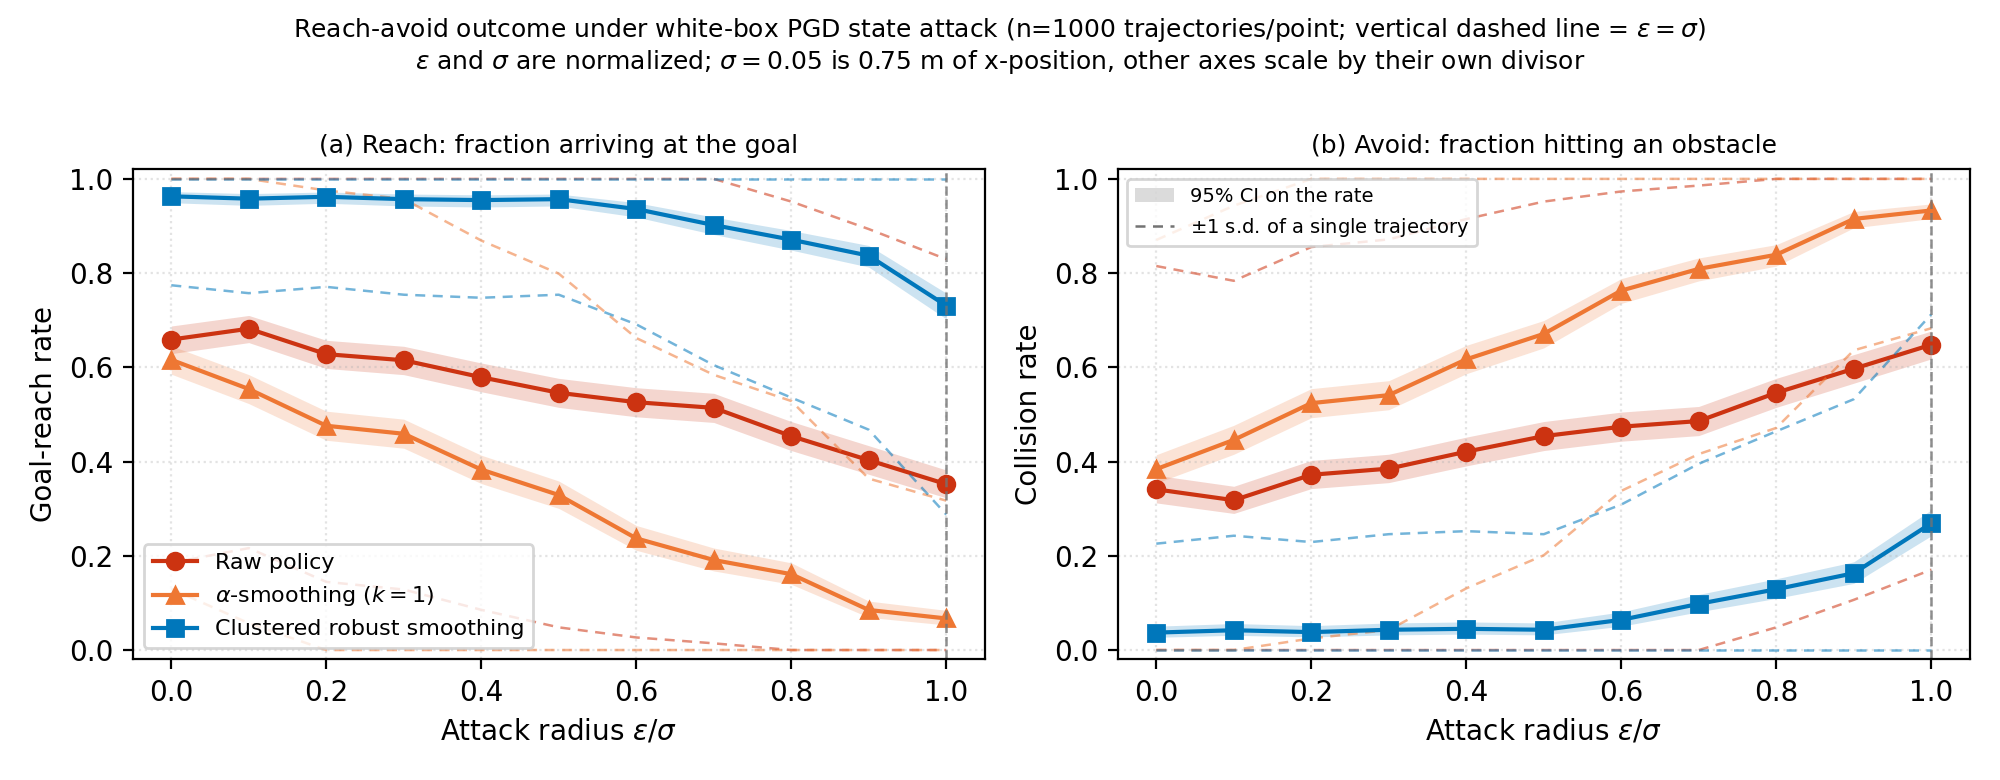
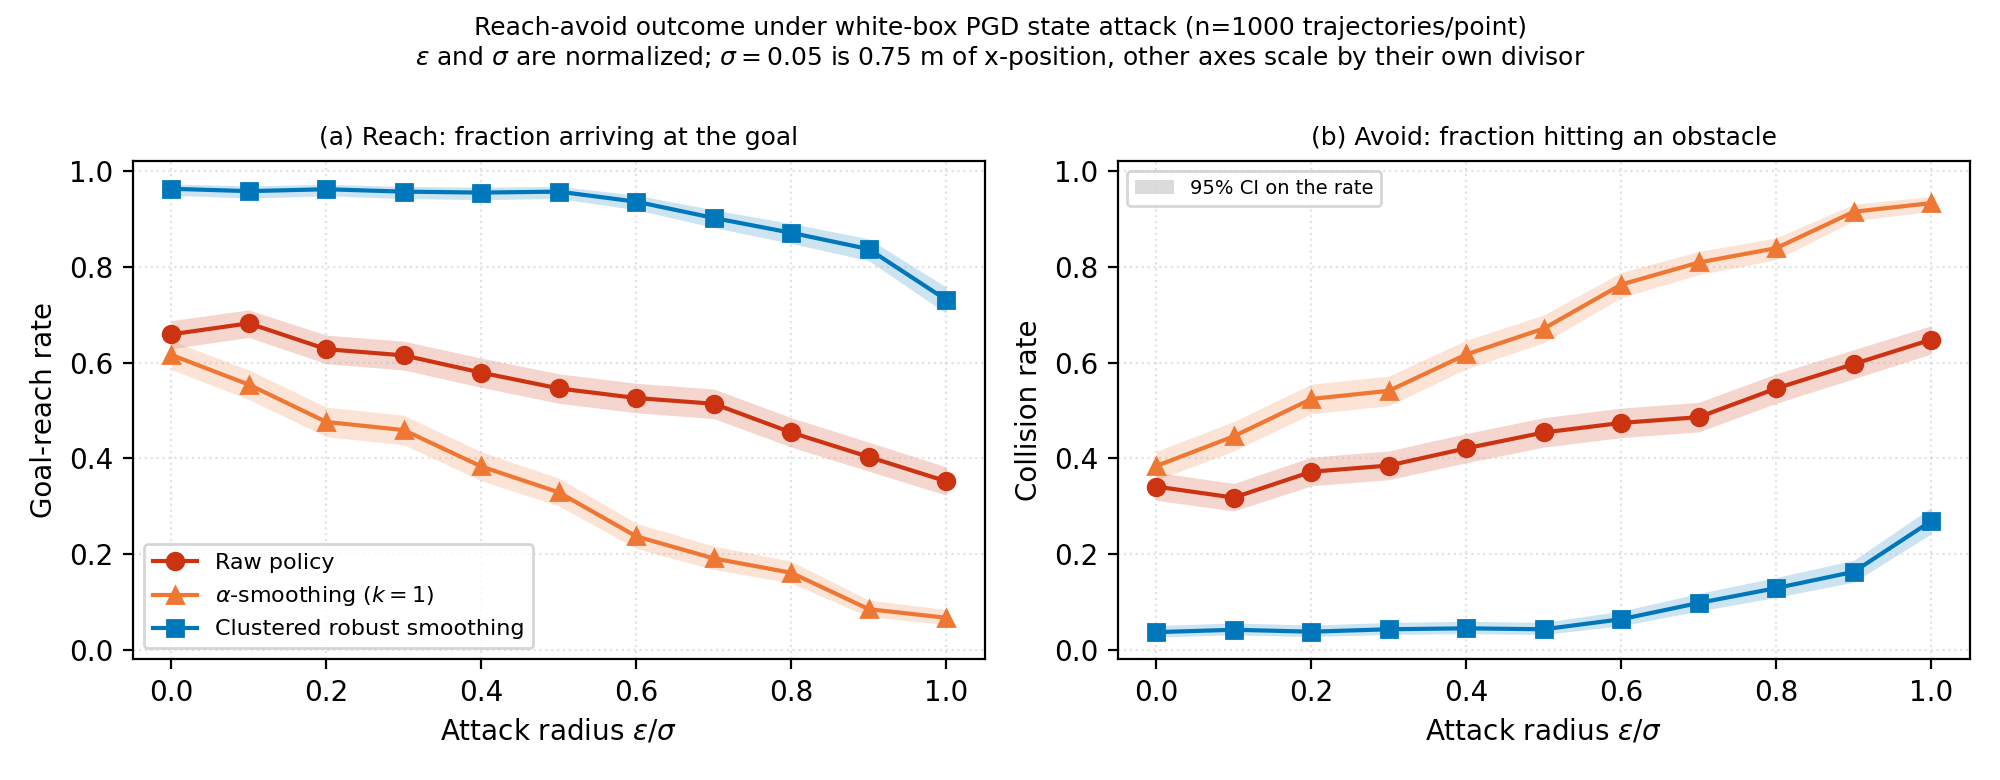
Update quadrotor outcome plot

diff --git a/experiments/rl_benchmarks/uav3d_attack_sweep.py b/experiments/rl_benchmarks/uav3d_attack_sweep.py
@@ -318,15 +318,8 @@ def aggregate(shards: list[dict[str, Any]]) -> tuple[list[float], dict[str, Any]
             }
             for outcome in ("goal", "collision", "timeout"):
                 rate, lo, hi = proportion_ci(counts[outcome], total)
-                # Bernoulli s.d. of the per-trajectory indicator. Note this is a
-                # deterministic function of ``rate`` -- for a 0/1 outcome the mean
-                # fixes the variance -- so it restates the plotted curve rather
-                # than adding independent information. It is reported because it
-                # answers a different question from the CI: how much an individual
-                # trajectory varies, versus how well the rate itself is pinned down.
                 row[outcome] = {
                     "rate": rate, "lo": lo, "hi": hi,
-                    "sd": float(np.sqrt(rate * (1.0 - rate))),
                 }
             rows.append(row)
         pooled[branch] = rows
@@ -381,15 +374,9 @@ def plot_outcome_sweep(
             rate = np.array([r[outcome]["rate"] for r in rows])
             lo = np.array([r[outcome]["lo"] for r in rows])
             hi = np.array([r[outcome]["hi"] for r in rows])
-            sd = np.array([r[outcome]["sd"] for r in rows])
             total_n = max(total_n, max(r["total"] for r in rows))
 
             ax.fill_between(x, lo, hi, alpha=0.2, color=style["color"], linewidth=0)
-            # +/- 1 s.d. of the per-trajectory indicator, clipped to the unit
-            # interval since a rate cannot leave it.
-            for sign in (1.0, -1.0):
-                ax.plot(x, np.clip(rate + sign * sd, 0.0, 1.0), linestyle=(0, (4, 3)),
-                        linewidth=0.9, color=style["color"], alpha=0.55)
             ax.plot(x, rate, marker=style["marker"], linewidth=1.5,
                     color=style["color"], label=style["label"])
 
@@ -398,24 +385,19 @@ def plot_outcome_sweep(
         ax.set_title(title, fontsize=9)
         ax.set_ylim(-0.02, 1.02)
         ax.grid(True, linestyle=":", alpha=0.35)
-        # The smoothing scale: to the right of it the attack is larger than the
-        # noise the defense integrates over, and no guarantee survives.
-        ax.axvline(1.0, color="0.45", linewidth=0.9, linestyle="--", alpha=0.8)
 
     # Band semantics belong in a legend, not a caption: two visually different
     # envelopes that mean different things are exactly the thing a reader
     # misreads. Proxy artists keep it independent of the branch entries.
     band_handles = [
         Patch(facecolor="0.45", alpha=0.25, label="95% CI on the rate"),
-        Line2D([0], [0], color="0.45", linestyle=(0, (4, 3)), linewidth=0.9,
-               label=r"$\pm 1$ s.d. of a single trajectory"),
     ]
     axes[0].legend(loc="best", frameon=True, fontsize=8)
     axes[1].legend(handles=band_handles, loc="best", frameon=True, fontsize=7)
 
     fig.suptitle(
         f"Reach-avoid outcome under white-box PGD state attack "
-        rf"(n={total_n} trajectories/point; vertical dashed line = $\epsilon=\sigma$)"
+        rf"(n={total_n} trajectories/point)"
         "\n"
         rf"$\epsilon$ and $\sigma$ are normalized; $\sigma={sigma:.4g}$ is "
         rf"{in_reference_units(sigma):.3g} m of {REFERENCE_AXIS}, "
@@ -561,8 +543,7 @@ def main() -> None:
         for i, radius in enumerate(radii):
             cells = "".join(
                 f"{pooled[b][i][outcome]['rate']:8.3f} "
-                f"[{pooled[b][i][outcome]['lo']:.2f},{pooled[b][i][outcome]['hi']:.2f}] "
-                f"sd{pooled[b][i][outcome]['sd']:.2f}"
+                f"[{pooled[b][i][outcome]['lo']:.2f},{pooled[b][i][outcome]['hi']:.2f}]"
                 for b in BRANCHES
             )
             print(f"  {radius / sigma:9.2f}  {cells}")
